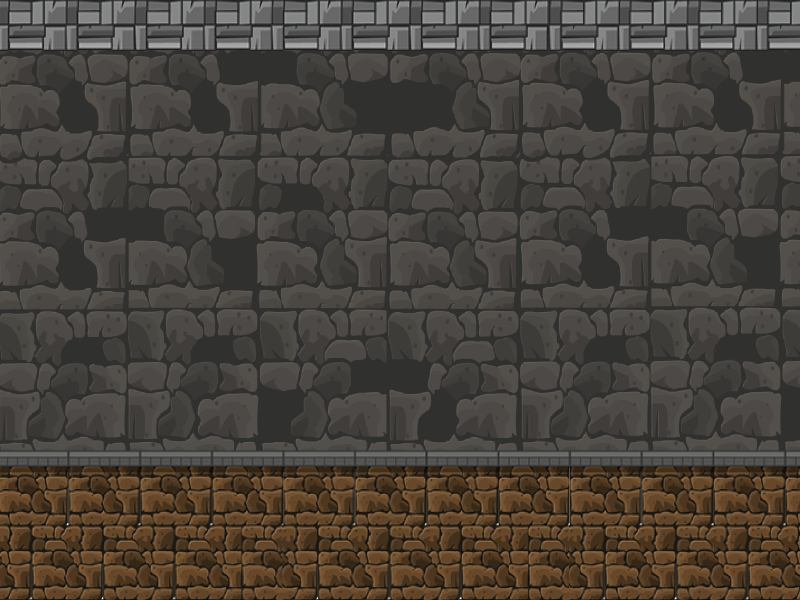
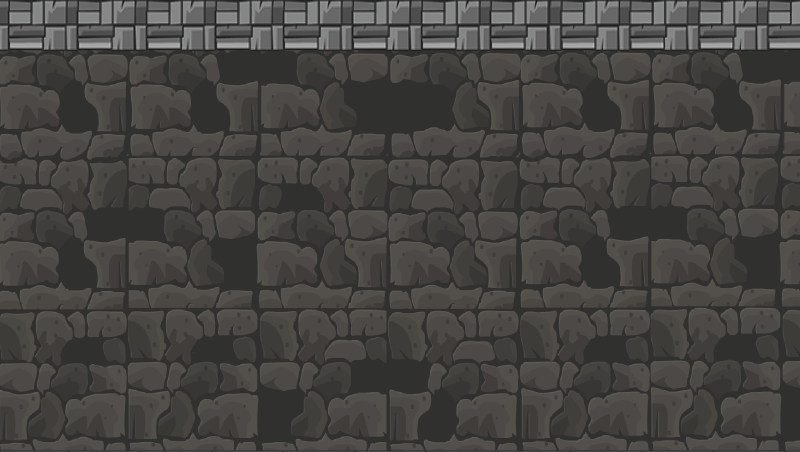
vmv m

diff --git a/js/game/states/MainMenu.js b/js/game/states/MainMenu.js
@@ -2,35 +2,39 @@ PrincessQuest.MainMenu = function() {};
 
 PrincessQuest.MainMenu.prototype = {
 	create: function(){
-		this.background = this.game.add.tileSprite(0,0,this.game.width,game.height,'background');
+		this.background = this.game.add.tileSprite(0,0,this.game.width,452,'background');
 		this.background.autoScroll(-100,0);
+		this.ground = this.game.add.tileSprite(0,this.game.height-149,this.game.width,73,'ground');
+		this.ground.autoScroll(-100,0);
 
-		//this.foreground = this.game.add.tileSprite(0,470,this.game.width, this.game.height -533, 'foreground');
-		//this.foreground.autoScroll(-100,0);
 
-		//this.ground = this.add.tileSprite(0, this.game.height - 73, this.game.width, 73, 'ground');
-		//this.ground.autoScroll(-400,0);
-
-		this.player = this.add.sprite(200, 360, 'player');
+		this.player = this.add.sprite(200, this.game.height-300, 'player');
 		this.player.anchor.setTo(0.5);
 		this.player.scale.setTo(0.3);
 
 		this.player.animations.add('walk', [0,1,2,3,4,5,6,7,8,9]);
 		this.player.animations.play('walk', 10, true);
 
-		this.game.add.tween(this.player).to({y: this.player.y -2}, 500, Phaser.Easing.Linear.NONE, true, 0, Infinity, true);
+		//this.game.add.tween(this.player).to({y: this.player.y -2}, 500, Phaser.Easing.Linear.NONE, true, 0, Infinity, true);
 	
 		this.splash = this.add.sprite(this.game.world.centerX, this.game.world.centerY, 'logo');
     	this.splash.anchor.setTo(0.5);
 
-    	//this.startText = this.game.add.bitmapText(0,0,'rocket', 'Tap To Start', 32);
-    	//this.startText.x = this.game.width / 2 - this.startText.textWidth / 2;
-    	//this.startText.y = this.game.height / 2 + this.splash.height / 2;
+    	this.game.physics.startSystem(Phaser.Physics.ARCADE);
+		this.game.physics.arcade.gravity.y = 400;
+		
+		this.game.physics.arcade.enableBody (this.ground);
+		this.ground.body.allowGravity = false;
+		this.ground.body.immovable = true;
+
+		this.game.physics.arcade.enableBody(this.player);
+		this.player.body.collideWorldBounds = true;
 	},
 	update: function(){
 		if (this.game.input.activePointer.justPressed()) {
 			this.game.state.start('Game');
 		}
+		this.game.physics.arcade.collide(this.player, this.ground);
 
 	}
 };

diff --git a/js/game/states/game.js b/js/game/states/game.js
@@ -1,0 +1,41 @@
+PrincessQuest.Game = function(){}
+
+PrincessQuest.Game.prototype = {
+
+	create: function() {
+		this.background = this.game.add.tileSprite(0,0,this.game.width,452,'background');
+		
+		this.ground = this.game.add.tileSprite(0,this.game.height-149,this.game.width,73,'ground');
+		
+
+		this.player = this.add.sprite(200, this.game.height-300, 'playerIdle');
+		this.player.anchor.setTo(0.5);
+		this.player.scale.setTo(0.3);
+
+		this.player.animations.add('idle', [0,1,2,3,4,5,6,7,8,9]);
+		this.player.animations.play('idle', 10, true);
+
+		this.game.physics.startSystem(Phaser.Physics.ARCADE);
+		this.game.physics.arcade.gravity.y = 400;
+		
+		this.game.physics.arcade.enableBody (this.ground);
+		this.ground.body.allowGravity = false;
+		this.ground.body.immovable = true;
+
+		this.game.physics.arcade.enableBody(this.player);
+		this.player.body.collideWorldBounds = true;
+	},
+
+	update: function() {
+		this.game.physics.arcade.collide(this.player, this.ground);
+
+		if (this.game.input.activePointer.isDown){
+			this.player.body.velocity.x +=25;
+		} 
+	},
+	shutdown: function (){
+
+
+	}
+
+}

diff --git a/js/game/states/preload.js b/js/game/states/preload.js
@@ -13,12 +13,13 @@ PrincessQuest.Preload.prototype = {
 
     this.load.setPreloadSprite(this.preloadBar);
 
-    //this.load.image('ground', 'assets/images/ground.png');
+    this.load.image('ground', 'assets/images/ground.png');
     this.load.image('background', 'assets/images/background.png');
-   // this.load.image('foreground', 'assets/images/foreground.png');
+   
 
     this.load.spritesheet('coins', 'assets/images/coins-ps.png', 51, 51, 7);
-    this.load.spritesheet('player', 'assets/images/knightWalk-ps.png', 587, 707, 10);
+    this.load.spritesheet('player', 'assets/images/knightWalk-ps.png', 587, 667, 10);
+    this.load.spritesheet('playerIdle', 'assets/images/knightIdle-ps.png', 587, 606, 10);
     this.load.spritesheet('missile', 'assets/images/missiles-ps.png', 361, 218, 4);
 
     this.load.audio('gameMusic', ['assets/audio/Pamgaea.mp3', 'assets/audio/Pamgaea.ogg']);

diff --git a/index.html b/index.html
@@ -7,7 +7,6 @@
 <!--To make the game playable on apple-->
 <meta name ="apple-mobile-web-app-capable" content="yes">
 <meta name ="viewport" content="minimal-ui">
-<script src="phonegap.js"></script>
 
 <script src="js/library/phaser.js"></script>
 
@@ -15,7 +14,7 @@
 <script src="js/game/states/boot.js"></script>
 <script src="js/game/states/preload.js"></script>
 <script src="js/game/states/MainMenu.js"></script>
-
+<script src="js/game/states/game.js"></script>
 <!--Game Prefabs-->
 
 <style>

diff --git a/js/main.js b/js/main.js
@@ -3,5 +3,6 @@ var game = new Phaser.Game(window.innerWidth, window.innerHeight, Phaser.AUTO,''
 game.state.add('Boot',PrincessQuest.Boot);
 game.state.add('Preload',PrincessQuest.Preload);
 game.state.add('MainMenu',PrincessQuest.MainMenu);
+game.state.add('Game',PrincessQuest.Game);
 
 game.state.start('Boot');
